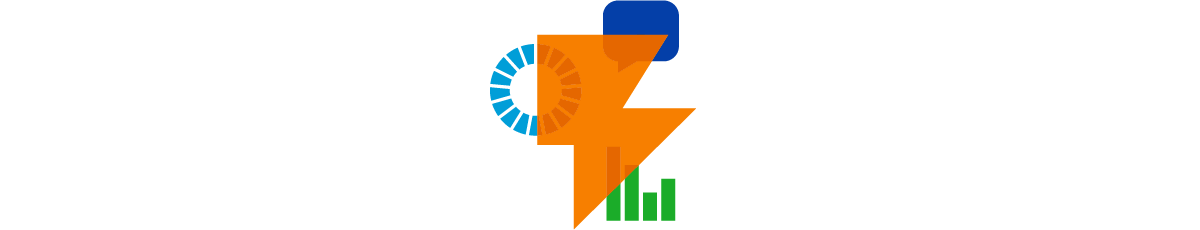
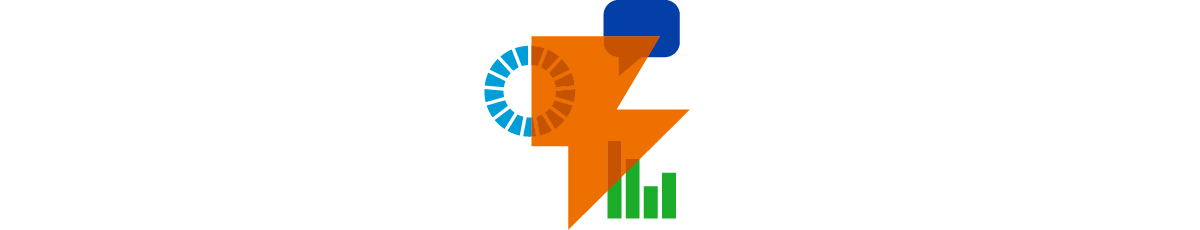
update colours

Changed region(s): [[0.4008, 0.1217, 0.5858, 1.0], [0.5242, 0.0, 0.555, 0.0304]]

diff --git a/app/themes/theme-base.js b/app/themes/theme-base.js
@@ -55,7 +55,7 @@ theme.breakpoints = {
 // 2: main colour, light
 // 3: main colour, lighter
 // 4: white
-const primary = coolorsToHex('https://coolors.co/057cbc-0690db-069aea-ffffff-ffffff');
+const primary = coolorsToHex('https://coolors.co/0063B5-0077D8-0077D8-ffffff-ffffff');
   // secondary color palette: dark to light
   // 0: secondary colour, darker
   // 1: secondary colour
@@ -110,7 +110,7 @@ theme.palette = {
   // [#AA compliant]
   // taxonomiesHoverAAL: ['#6D787E', '#3A1D49', '#3B3681', '#28865D', '#21827B', '#3D832F', '#003A5C', '#147CA9', '#6D787E'],
   // [0: Default, 1: HR Body, 2: UN session, 3: HR, 4: Affected P, 5: Cluster, 6: Orga, 7: SDGs, 8: unused]
-  taxonomies: ['#fff', '#006E96', '#007FAD', '#6D03DD', '#8B1F9E', '#D32168', '#6E8081', '#009ED8', '#7B02FC'],
+  taxonomies: ['#fff', '#737D84', '#9BA6B1', '#007034', '#05A763', '#D61D39', '#023066', '#009ED8', '#7B02FC'],
   taxonomiesHover: ['#fff', '#033A89', '#0541C2', '#8B1F9E', '#1B5A3E', '#002E2E', '#524400', '#007FAD', '#393F41'],
 
   // other entities
